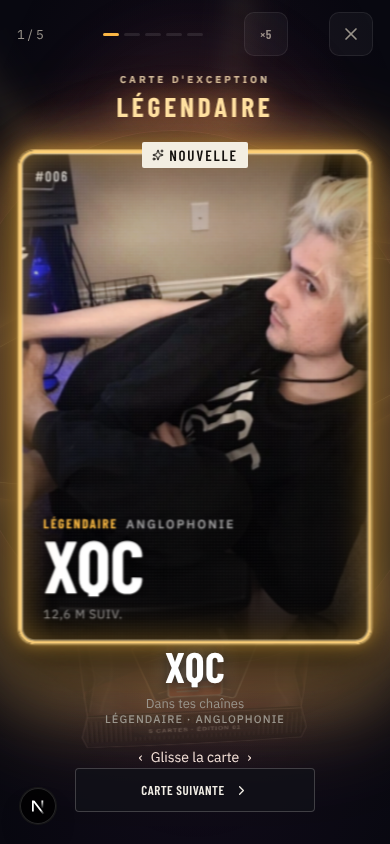
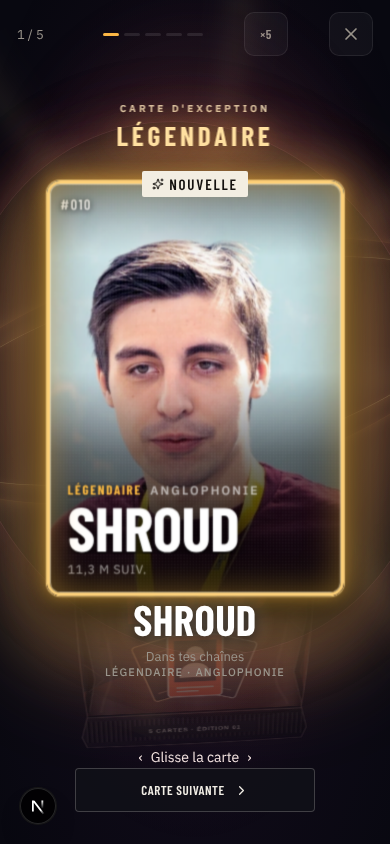
Nuit de direct : carte de révélation à la taille de l'extraction, rareté lisible
La carte révélée garde la taille de la carte qui sort du paquet (continuité
et capture du sachet ouvert inchangées). Le libellé de rareté n'est plus
tronqué par la région. Captures 390×844 régénérées.

Claude-Session: https://claude.ai/code/session_01UQi9NQs2uWeTHGmNuAxhKP

diff --git a/src/app/stage.css b/src/app/stage.css
@@ -530,13 +530,10 @@
 }
 
 /* ================================================================ révélation, nuit
-   Une carte à la fois, presque plein écran, qui sort du paquet. Nouvelle : un
+   Une carte à la fois, dans la scène plein écran, qui sort du paquet (même
+   taille que la carte extraite : la continuité est testée). Nouvelle : un
    flash de la couleur de sa rareté, puis son nom. Doublon : pas de retournement,
    elle rejoint une petite pile. Les tailles restent partagées avec l'extraction. */
-.booster-presentation {
-  --scene-card-width: min(88vw, 420px, calc((var(--scene-height) - 320px) * .715));
-  --scene-center: calc(var(--scene-height) * .47);
-}
 .reveal-game .reveal-rarity-kicker { top: calc(var(--scene-center) - var(--scene-card-height) / 2 - 84px); }
 .reveal-game .reveal-stage > .new-badge { top: calc(var(--scene-center) - var(--scene-card-height) / 2 - 15px); z-index: 4; }
 .reveal-new-flash {

diff --git a/src/app/globals.css b/src/app/globals.css
@@ -4622,7 +4622,8 @@ input:focus-visible {
   padding: 0 7% 6.5%; border-top: 0; background: none; box-shadow: none;
 }
 .creator-card .card-identity { justify-content: flex-start; gap: 8px; }
-.creator-card .card-rarity-label { font-size: clamp(8px, 5.4cqw, 13px); text-shadow: 0 1px 6px rgb(0 0 0 / .9); }
+.creator-card .card-rarity-label { flex: none; font-size: clamp(8px, 5.4cqw, 13px); text-shadow: 0 1px 6px rgb(0 0 0 / .9); }
+.creator-card .card-region { min-width: 0; }
 .creator-card .card-region { font-size: clamp(8px, 4.6cqw, 12px); color: rgb(255 255 255 / .62); }
 .creator-card .card-nameplate h3 {
   margin: .5cqw 0 0;
